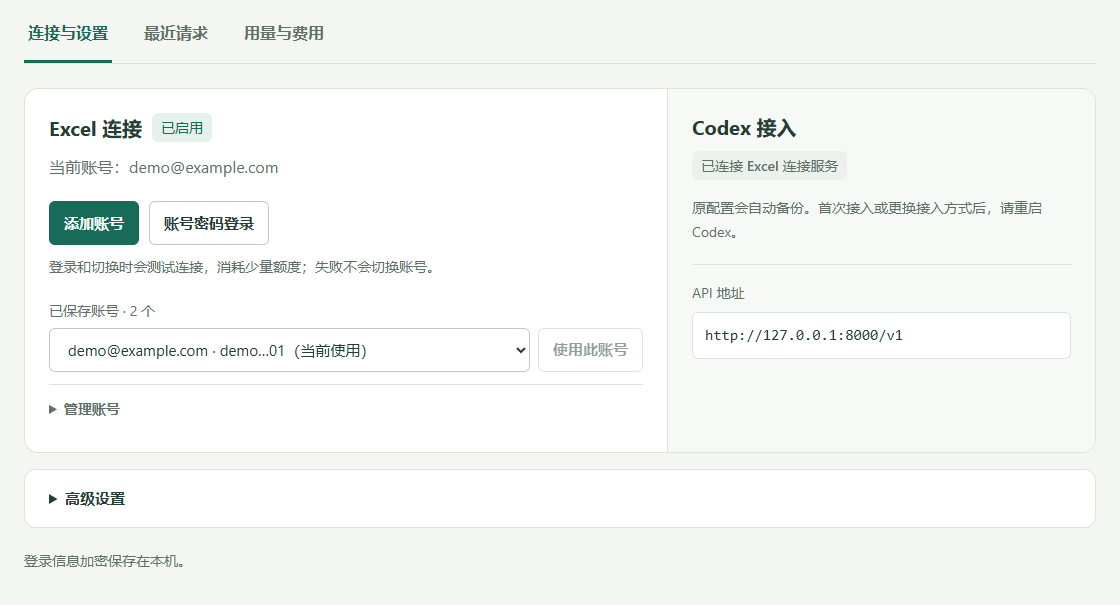
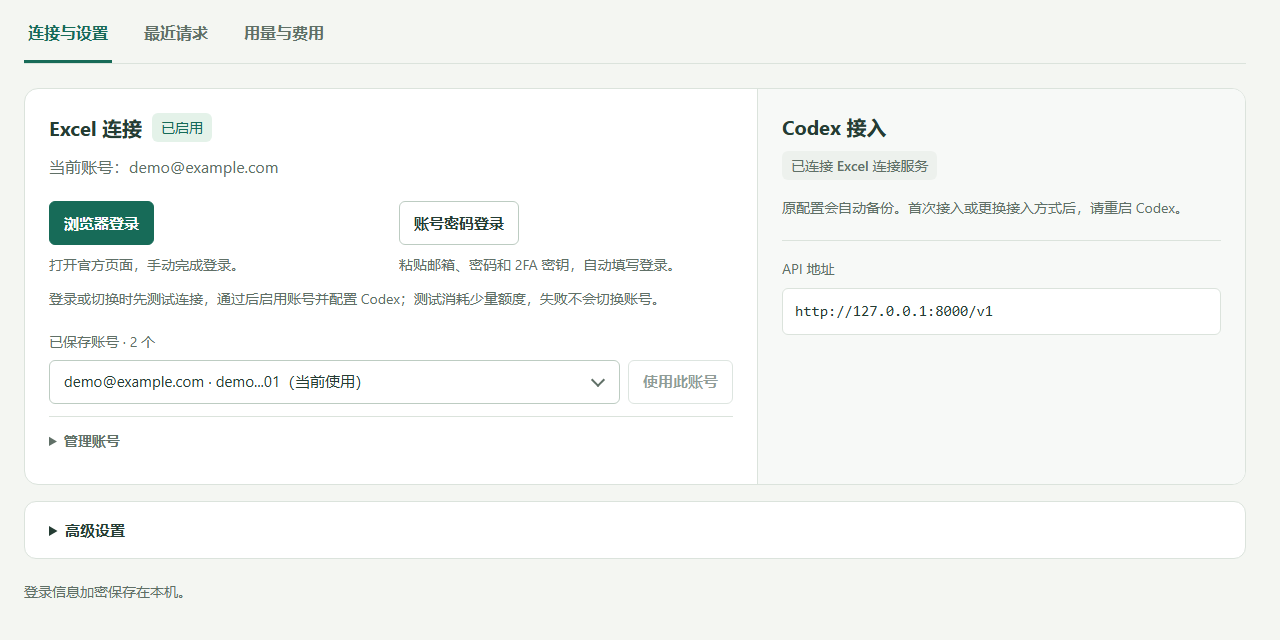
docs: refresh connection screenshot and sign-in instructions

diff --git a/readme.md b/readme.md
@@ -71,7 +71,7 @@ py -3 -m venv .venv
 
 Double-click **启动.vbs** to open the app:
 
-1. Click **登录并连接** (Sign in and connect) and finish sign-in in the official authorization window.
+1. Click **浏览器登录** (Browser sign-in) and finish sign-in in the official authorization window.
 2. The app validates the account with a short model request, using a small amount of quota. On success, it enables the account and backs up and updates your Codex configuration.
 3. Restart Codex and start a new conversation.
 

diff --git a/readme.zh-CN.md b/readme.zh-CN.md
@@ -71,7 +71,7 @@ py -3 -m venv .venv
 
 双击 **启动.vbs** 打开窗口：
 
-1. 点击 **登录并连接**，在官方授权窗口完成登录。
+1. 点击 **浏览器登录**，在官方授权窗口完成登录。
 2. 程序会用一次简短模型请求验证账号，消耗少量额度。验证通过后，自动启用账号、备份并更新 Codex 配置。
 3. 重启 Codex，开始新对话。
 
